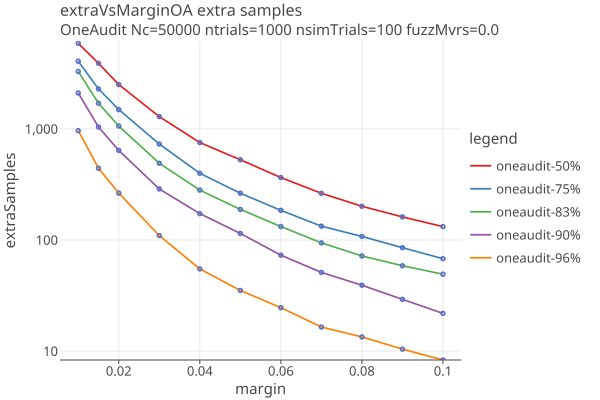
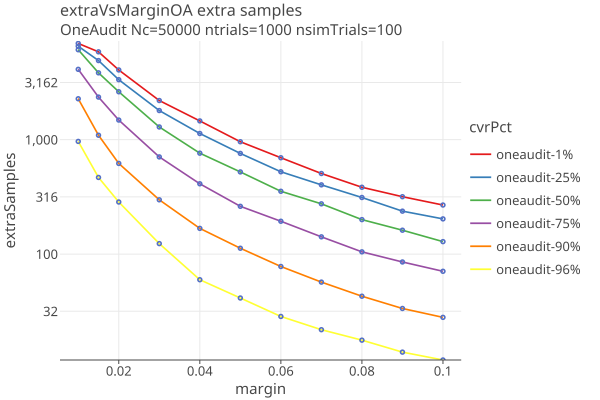
redo OA plots with ordering and different cvrPct

diff --git a/docs/plots2/estimate/extraVsMarginOALogLinear.html b/docs/plots2/estimate/extraVsMarginOALogLinear.html
@@ -5,7 +5,7 @@
        &lt;script type=&quot;text/javascript&quot; data-lets-plot-script=&quot;library&quot; src=&quot;https://cdn.jsdelivr.net/gh/JetBrains/lets-plot@v4.7.3/js-package/distr/lets-plot.min.js&quot;>&lt;/script>
    &lt;/head>
    &lt;body>
-          &lt;div id=&quot;NXNjhw&quot;>&lt;/div>
+          &lt;div id=&quot;jQuxOO&quot;>&lt;/div>
    &lt;script type=&quot;text/javascript&quot; data-lets-plot-script=&quot;plot&quot;>
    
    (function() {
@@ -30,7 +30,7 @@
        };
    }
    
-   const containerDiv = document.getElementById(&quot;NXNjhw&quot;);
+   const containerDiv = document.getElementById(&quot;jQuxOO&quot;);
    let fig = null;
    
    function renderPlot() {
@@ -38,7 +38,7 @@
            const plotSpec = {
 &quot;ggtitle&quot;:{
 &quot;text&quot;:&quot;extraVsMarginOA extra samples&quot;,
-&quot;subtitle&quot;:&quot;OneAudit Nc=50000 ntrials=1000 nsimTrials=100 fuzzMvrs=0.0&quot;
+&quot;subtitle&quot;:&quot;OneAudit Nc=50000 ntrials=1000 nsimTrials=100&quot;
 },
 &quot;mapping&quot;:{
 },
@@ -67,15 +67,15 @@
 &quot;mapping&quot;:{
 &quot;x&quot;:&quot;margin&quot;,
 &quot;y&quot;:&quot;extraSamples&quot;,
-&quot;color&quot;:&quot;legend&quot;,
+&quot;color&quot;:&quot;cvrPct&quot;,
 &quot;group&quot;:&quot;&amp;merged_groups&quot;
 },
 &quot;stat&quot;:&quot;identity&quot;,
 &quot;data&quot;:{
-&quot;margin&quot;:[0.010000000000000009,0.014999999999999902,0.020000000000000018,0.030000000000000027,0.040000000000000036,0.050000000000000044,0.06000000000000005,0.07000000000000006,0.08000000000000007,0.09000000000000008,0.10000000000000009,0.010000000000000009,0.014999999999999902,0.020000000000000018,0.030000000000000027,0.040000000000000036,0.050000000000000044,0.06000000000000005,0.07000000000000006,0.08000000000000007,0.09000000000000008,0.10000000000000009,0.010000000000000009,0.014999999999999902,0.020000000000000018,0.030000000000000027,0.040000000000000036,0.050000000000000044,0.06000000000000005,0.07000000000000006,0.08000000000000007,0.09000000000000008,0.10000000000000009,0.010000000000000009,0.014999999999999902,0.020000000000000018,0.030000000000000027,0.040000000000000036,0.050000000000000044,0.06000000000000005,0.07000000000000006,0.08000000000000007,0.09000000000000008,0.10000000000000009,0.010000000000000009,0.014999999999999902,0.020000000000000018,0.030000000000000027,0.040000000000000036,0.050000000000000044,0.06000000000000005,0.07000000000000006,0.08000000000000007,0.09000000000000008,0.10000000000000009],
-&quot;&amp;merged_groups&quot;:[&quot;oneaudit-50%&quot;,&quot;oneaudit-50%&quot;,&quot;oneaudit-50%&quot;,&quot;oneaudit-50%&quot;,&quot;oneaudit-50%&quot;,&quot;oneaudit-50%&quot;,&quot;oneaudit-50%&quot;,&quot;oneaudit-50%&quot;,&quot;oneaudit-50%&quot;,&quot;oneaudit-50%&quot;,&quot;oneaudit-50%&quot;,&quot;oneaudit-75%&quot;,&quot;oneaudit-75%&quot;,&quot;oneaudit-75%&quot;,&quot;oneaudit-75%&quot;,&quot;oneaudit-75%&quot;,&quot;oneaudit-75%&quot;,&quot;oneaudit-75%&quot;,&quot;oneaudit-75%&quot;,&quot;oneaudit-75%&quot;,&quot;oneaudit-75%&quot;,&quot;oneaudit-75%&quot;,&quot;oneaudit-83%&quot;,&quot;oneaudit-83%&quot;,&quot;oneaudit-83%&quot;,&quot;oneaudit-83%&quot;,&quot;oneaudit-83%&quot;,&quot;oneaudit-83%&quot;,&quot;oneaudit-83%&quot;,&quot;oneaudit-83%&quot;,&quot;oneaudit-83%&quot;,&quot;oneaudit-83%&quot;,&quot;oneaudit-83%&quot;,&quot;oneaudit-90%&quot;,&quot;oneaudit-90%&quot;,&quot;oneaudit-90%&quot;,&quot;oneaudit-90%&quot;,&quot;oneaudit-90%&quot;,&quot;oneaudit-90%&quot;,&quot;oneaudit-90%&quot;,&quot;oneaudit-90%&quot;,&quot;oneaudit-90%&quot;,&quot;oneaudit-90%&quot;,&quot;oneaudit-90%&quot;,&quot;oneaudit-96%&quot;,&quot;oneaudit-96%&quot;,&quot;oneaudit-96%&quot;,&quot;oneaudit-96%&quot;,&quot;oneaudit-96%&quot;,&quot;oneaudit-96%&quot;,&quot;oneaudit-96%&quot;,&quot;oneaudit-96%&quot;,&quot;oneaudit-96%&quot;,&quot;oneaudit-96%&quot;,&quot;oneaudit-96%&quot;],
-&quot;extraSamples&quot;:[5892.156999999999,3896.3800000000156,2508.1710000000003,1289.9650000000015,753.5949999999996,527.503999999999,364.76500000000055,263.01199999999835,201.08600000000013,161.28199999999987,131.8949999999997,4068.784000000005,2290.2610000000086,1492.8229999999994,731.2020000000009,398.56700000000103,263.4850000000006,184.72499999999968,133.15300000000053,107.61900000000011,85.27000000000007,67.78400000000025,3292.114000000004,1702.2140000000027,1061.2669999999994,490.41599999999835,281.3109999999996,188.39139139139138,132.17199999999968,94.18700000000001,71.81299999999982,58.629000000000076,49.179999999999936,2105.540000000001,1039.7429999999954,640.2400000000009,288.0450000000004,172.68699999999995,114.50299999999993,72.96800000000025,51.029000000000195,39.14200000000008,29.197999999999922,21.82799999999999,964.1899999999996,442.38800000000015,264.1849999999996,109.53000000000003,54.874000000000166,35.10600000000014,24.58200000000005,16.446999999999917,13.400999999999911,10.402999999999977,8.304000000000073],
-&quot;legend&quot;:[&quot;oneaudit-50%&quot;,&quot;oneaudit-50%&quot;,&quot;oneaudit-50%&quot;,&quot;oneaudit-50%&quot;,&quot;oneaudit-50%&quot;,&quot;oneaudit-50%&quot;,&quot;oneaudit-50%&quot;,&quot;oneaudit-50%&quot;,&quot;oneaudit-50%&quot;,&quot;oneaudit-50%&quot;,&quot;oneaudit-50%&quot;,&quot;oneaudit-75%&quot;,&quot;oneaudit-75%&quot;,&quot;oneaudit-75%&quot;,&quot;oneaudit-75%&quot;,&quot;oneaudit-75%&quot;,&quot;oneaudit-75%&quot;,&quot;oneaudit-75%&quot;,&quot;oneaudit-75%&quot;,&quot;oneaudit-75%&quot;,&quot;oneaudit-75%&quot;,&quot;oneaudit-75%&quot;,&quot;oneaudit-83%&quot;,&quot;oneaudit-83%&quot;,&quot;oneaudit-83%&quot;,&quot;oneaudit-83%&quot;,&quot;oneaudit-83%&quot;,&quot;oneaudit-83%&quot;,&quot;oneaudit-83%&quot;,&quot;oneaudit-83%&quot;,&quot;oneaudit-83%&quot;,&quot;oneaudit-83%&quot;,&quot;oneaudit-83%&quot;,&quot;oneaudit-90%&quot;,&quot;oneaudit-90%&quot;,&quot;oneaudit-90%&quot;,&quot;oneaudit-90%&quot;,&quot;oneaudit-90%&quot;,&quot;oneaudit-90%&quot;,&quot;oneaudit-90%&quot;,&quot;oneaudit-90%&quot;,&quot;oneaudit-90%&quot;,&quot;oneaudit-90%&quot;,&quot;oneaudit-90%&quot;,&quot;oneaudit-96%&quot;,&quot;oneaudit-96%&quot;,&quot;oneaudit-96%&quot;,&quot;oneaudit-96%&quot;,&quot;oneaudit-96%&quot;,&quot;oneaudit-96%&quot;,&quot;oneaudit-96%&quot;,&quot;oneaudit-96%&quot;,&quot;oneaudit-96%&quot;,&quot;oneaudit-96%&quot;,&quot;oneaudit-96%&quot;]
+&quot;cvrPct&quot;:[&quot;oneaudit-1%&quot;,&quot;oneaudit-1%&quot;,&quot;oneaudit-1%&quot;,&quot;oneaudit-1%&quot;,&quot;oneaudit-1%&quot;,&quot;oneaudit-1%&quot;,&quot;oneaudit-1%&quot;,&quot;oneaudit-1%&quot;,&quot;oneaudit-1%&quot;,&quot;oneaudit-1%&quot;,&quot;oneaudit-1%&quot;,&quot;oneaudit-25%&quot;,&quot;oneaudit-25%&quot;,&quot;oneaudit-25%&quot;,&quot;oneaudit-25%&quot;,&quot;oneaudit-25%&quot;,&quot;oneaudit-25%&quot;,&quot;oneaudit-25%&quot;,&quot;oneaudit-25%&quot;,&quot;oneaudit-25%&quot;,&quot;oneaudit-25%&quot;,&quot;oneaudit-25%&quot;,&quot;oneaudit-50%&quot;,&quot;oneaudit-50%&quot;,&quot;oneaudit-50%&quot;,&quot;oneaudit-50%&quot;,&quot;oneaudit-50%&quot;,&quot;oneaudit-50%&quot;,&quot;oneaudit-50%&quot;,&quot;oneaudit-50%&quot;,&quot;oneaudit-50%&quot;,&quot;oneaudit-50%&quot;,&quot;oneaudit-50%&quot;,&quot;oneaudit-75%&quot;,&quot;oneaudit-75%&quot;,&quot;oneaudit-75%&quot;,&quot;oneaudit-75%&quot;,&quot;oneaudit-75%&quot;,&quot;oneaudit-75%&quot;,&quot;oneaudit-75%&quot;,&quot;oneaudit-75%&quot;,&quot;oneaudit-75%&quot;,&quot;oneaudit-75%&quot;,&quot;oneaudit-75%&quot;,&quot;oneaudit-90%&quot;,&quot;oneaudit-90%&quot;,&quot;oneaudit-90%&quot;,&quot;oneaudit-90%&quot;,&quot;oneaudit-90%&quot;,&quot;oneaudit-90%&quot;,&quot;oneaudit-90%&quot;,&quot;oneaudit-90%&quot;,&quot;oneaudit-90%&quot;,&quot;oneaudit-90%&quot;,&quot;oneaudit-90%&quot;,&quot;oneaudit-96%&quot;,&quot;oneaudit-96%&quot;,&quot;oneaudit-96%&quot;,&quot;oneaudit-96%&quot;,&quot;oneaudit-96%&quot;,&quot;oneaudit-96%&quot;,&quot;oneaudit-96%&quot;,&quot;oneaudit-96%&quot;,&quot;oneaudit-96%&quot;,&quot;oneaudit-96%&quot;,&quot;oneaudit-96%&quot;],
+&quot;&amp;merged_groups&quot;:[&quot;oneaudit-1%&quot;,&quot;oneaudit-1%&quot;,&quot;oneaudit-1%&quot;,&quot;oneaudit-1%&quot;,&quot;oneaudit-1%&quot;,&quot;oneaudit-1%&quot;,&quot;oneaudit-1%&quot;,&quot;oneaudit-1%&quot;,&quot;oneaudit-1%&quot;,&quot;oneaudit-1%&quot;,&quot;oneaudit-1%&quot;,&quot;oneaudit-25%&quot;,&quot;oneaudit-25%&quot;,&quot;oneaudit-25%&quot;,&quot;oneaudit-25%&quot;,&quot;oneaudit-25%&quot;,&quot;oneaudit-25%&quot;,&quot;oneaudit-25%&quot;,&quot;oneaudit-25%&quot;,&quot;oneaudit-25%&quot;,&quot;oneaudit-25%&quot;,&quot;oneaudit-25%&quot;,&quot;oneaudit-50%&quot;,&quot;oneaudit-50%&quot;,&quot;oneaudit-50%&quot;,&quot;oneaudit-50%&quot;,&quot;oneaudit-50%&quot;,&quot;oneaudit-50%&quot;,&quot;oneaudit-50%&quot;,&quot;oneaudit-50%&quot;,&quot;oneaudit-50%&quot;,&quot;oneaudit-50%&quot;,&quot;oneaudit-50%&quot;,&quot;oneaudit-75%&quot;,&quot;oneaudit-75%&quot;,&quot;oneaudit-75%&quot;,&quot;oneaudit-75%&quot;,&quot;oneaudit-75%&quot;,&quot;oneaudit-75%&quot;,&quot;oneaudit-75%&quot;,&quot;oneaudit-75%&quot;,&quot;oneaudit-75%&quot;,&quot;oneaudit-75%&quot;,&quot;oneaudit-75%&quot;,&quot;oneaudit-90%&quot;,&quot;oneaudit-90%&quot;,&quot;oneaudit-90%&quot;,&quot;oneaudit-90%&quot;,&quot;oneaudit-90%&quot;,&quot;oneaudit-90%&quot;,&quot;oneaudit-90%&quot;,&quot;oneaudit-90%&quot;,&quot;oneaudit-90%&quot;,&quot;oneaudit-90%&quot;,&quot;oneaudit-90%&quot;,&quot;oneaudit-96%&quot;,&quot;oneaudit-96%&quot;,&quot;oneaudit-96%&quot;,&quot;oneaudit-96%&quot;,&quot;oneaudit-96%&quot;,&quot;oneaudit-96%&quot;,&quot;oneaudit-96%&quot;,&quot;oneaudit-96%&quot;,&quot;oneaudit-96%&quot;,&quot;oneaudit-96%&quot;,&quot;oneaudit-96%&quot;],
+&quot;margin&quot;:[0.01,0.015,0.02,0.03,0.04,0.05,0.06,0.07,0.08,0.09,0.1,0.01,0.015,0.02,0.03,0.04,0.05,0.06,0.07,0.08,0.09,0.1,0.01,0.015,0.02,0.03,0.04,0.05,0.06,0.07,0.08,0.09,0.1,0.01,0.015,0.02,0.03,0.04,0.05,0.06,0.07,0.08,0.09,0.1,0.01,0.015,0.02,0.03,0.04,0.05,0.06,0.07,0.08,0.09,0.1,0.01,0.015,0.02,0.03,0.04,0.05,0.06,0.07,0.08,0.09,0.1],
+&quot;extraSamples&quot;:[6944.184000000019,5861.829999999998,4069.528999999995,2199.7840000000024,1459.2089999999957,959.482000000005,695.2889999999989,506.24600000000146,383.7810000000003,317.34000000000026,268.35399999999925,6565.019000000022,4916.988000000003,3345.155999999999,1798.0410000000065,1132.8819999999969,758.5099999999998,524.3029999999999,402.8359999999998,312.31500000000074,237.274,203.0390000000005,6114.249999999996,3840.629999999992,2623.7739999999994,1291.8410000000013,762.3069999999982,522.5700000000011,353.9800000000009,274.93200000000024,200.07900000000046,161.6759999999996,128.48300000000017,4121.055000000004,2356.9190000000044,1484.4429999999993,706.9790000000005,411.57599999999957,261.5360000000002,193.6110000000001,141.4840000000002,104.59200000000013,85.28799999999995,70.71400000000008,2279.0939999999973,1093.6030000000014,620.106000000002,298.0879999999995,167.72899999999981,112.44899999999984,77.87099999999984,56.87199999999993,42.80999999999999,33.44499999999991,27.97200000000015,965.7780000000048,467.5629999999999,285.20299999999975,123.447,59.65700000000021,41.29900000000001,28.479999999999947,21.81599999999996,17.678999999999974,13.893999999999977,11.855000000000103]
 },
 &quot;sampling&quot;:&quot;none&quot;,
 &quot;inherit_aes&quot;:false,
@@ -84,7 +84,7 @@
 &quot;data_meta&quot;:{
 &quot;series_annotations&quot;:[{
 &quot;type&quot;:&quot;str&quot;,
-&quot;column&quot;:&quot;legend&quot;
+&quot;column&quot;:&quot;cvrPct&quot;
 },{
 &quot;type&quot;:&quot;float&quot;,
 &quot;column&quot;:&quot;margin&quot;
@@ -104,10 +104,10 @@
 },
 &quot;stat&quot;:&quot;identity&quot;,
 &quot;data&quot;:{
-&quot;margin&quot;:[0.010000000000000009,0.014999999999999902,0.020000000000000018,0.030000000000000027,0.040000000000000036,0.050000000000000044,0.06000000000000005,0.07000000000000006,0.08000000000000007,0.09000000000000008,0.10000000000000009,0.010000000000000009,0.014999999999999902,0.020000000000000018,0.030000000000000027,0.040000000000000036,0.050000000000000044,0.06000000000000005,0.07000000000000006,0.08000000000000007,0.09000000000000008,0.10000000000000009,0.010000000000000009,0.014999999999999902,0.020000000000000018,0.030000000000000027,0.040000000000000036,0.050000000000000044,0.06000000000000005,0.07000000000000006,0.08000000000000007,0.09000000000000008,0.10000000000000009,0.010000000000000009,0.014999999999999902,0.020000000000000018,0.030000000000000027,0.040000000000000036,0.050000000000000044,0.06000000000000005,0.07000000000000006,0.08000000000000007,0.09000000000000008,0.10000000000000009,0.010000000000000009,0.014999999999999902,0.020000000000000018,0.030000000000000027,0.040000000000000036,0.050000000000000044,0.06000000000000005,0.07000000000000006,0.08000000000000007,0.09000000000000008,0.10000000000000009],
-&quot;&amp;merged_groups&quot;:[&quot;oneaudit-50%&quot;,&quot;oneaudit-50%&quot;,&quot;oneaudit-50%&quot;,&quot;oneaudit-50%&quot;,&quot;oneaudit-50%&quot;,&quot;oneaudit-50%&quot;,&quot;oneaudit-50%&quot;,&quot;oneaudit-50%&quot;,&quot;oneaudit-50%&quot;,&quot;oneaudit-50%&quot;,&quot;oneaudit-50%&quot;,&quot;oneaudit-75%&quot;,&quot;oneaudit-75%&quot;,&quot;oneaudit-75%&quot;,&quot;oneaudit-75%&quot;,&quot;oneaudit-75%&quot;,&quot;oneaudit-75%&quot;,&quot;oneaudit-75%&quot;,&quot;oneaudit-75%&quot;,&quot;oneaudit-75%&quot;,&quot;oneaudit-75%&quot;,&quot;oneaudit-75%&quot;,&quot;oneaudit-83%&quot;,&quot;oneaudit-83%&quot;,&quot;oneaudit-83%&quot;,&quot;oneaudit-83%&quot;,&quot;oneaudit-83%&quot;,&quot;oneaudit-83%&quot;,&quot;oneaudit-83%&quot;,&quot;oneaudit-83%&quot;,&quot;oneaudit-83%&quot;,&quot;oneaudit-83%&quot;,&quot;oneaudit-83%&quot;,&quot;oneaudit-90%&quot;,&quot;oneaudit-90%&quot;,&quot;oneaudit-90%&quot;,&quot;oneaudit-90%&quot;,&quot;oneaudit-90%&quot;,&quot;oneaudit-90%&quot;,&quot;oneaudit-90%&quot;,&quot;oneaudit-90%&quot;,&quot;oneaudit-90%&quot;,&quot;oneaudit-90%&quot;,&quot;oneaudit-90%&quot;,&quot;oneaudit-96%&quot;,&quot;oneaudit-96%&quot;,&quot;oneaudit-96%&quot;,&quot;oneaudit-96%&quot;,&quot;oneaudit-96%&quot;,&quot;oneaudit-96%&quot;,&quot;oneaudit-96%&quot;,&quot;oneaudit-96%&quot;,&quot;oneaudit-96%&quot;,&quot;oneaudit-96%&quot;,&quot;oneaudit-96%&quot;],
-&quot;extraSamples&quot;:[5892.156999999999,3896.3800000000156,2508.1710000000003,1289.9650000000015,753.5949999999996,527.503999999999,364.76500000000055,263.01199999999835,201.08600000000013,161.28199999999987,131.8949999999997,4068.784000000005,2290.2610000000086,1492.8229999999994,731.2020000000009,398.56700000000103,263.4850000000006,184.72499999999968,133.15300000000053,107.61900000000011,85.27000000000007,67.78400000000025,3292.114000000004,1702.2140000000027,1061.2669999999994,490.41599999999835,281.3109999999996,188.39139139139138,132.17199999999968,94.18700000000001,71.81299999999982,58.629000000000076,49.179999999999936,2105.540000000001,1039.7429999999954,640.2400000000009,288.0450000000004,172.68699999999995,114.50299999999993,72.96800000000025,51.029000000000195,39.14200000000008,29.197999999999922,21.82799999999999,964.1899999999996,442.38800000000015,264.1849999999996,109.53000000000003,54.874000000000166,35.10600000000014,24.58200000000005,16.446999999999917,13.400999999999911,10.402999999999977,8.304000000000073],
-&quot;legend&quot;:[&quot;oneaudit-50%&quot;,&quot;oneaudit-50%&quot;,&quot;oneaudit-50%&quot;,&quot;oneaudit-50%&quot;,&quot;oneaudit-50%&quot;,&quot;oneaudit-50%&quot;,&quot;oneaudit-50%&quot;,&quot;oneaudit-50%&quot;,&quot;oneaudit-50%&quot;,&quot;oneaudit-50%&quot;,&quot;oneaudit-50%&quot;,&quot;oneaudit-75%&quot;,&quot;oneaudit-75%&quot;,&quot;oneaudit-75%&quot;,&quot;oneaudit-75%&quot;,&quot;oneaudit-75%&quot;,&quot;oneaudit-75%&quot;,&quot;oneaudit-75%&quot;,&quot;oneaudit-75%&quot;,&quot;oneaudit-75%&quot;,&quot;oneaudit-75%&quot;,&quot;oneaudit-75%&quot;,&quot;oneaudit-83%&quot;,&quot;oneaudit-83%&quot;,&quot;oneaudit-83%&quot;,&quot;oneaudit-83%&quot;,&quot;oneaudit-83%&quot;,&quot;oneaudit-83%&quot;,&quot;oneaudit-83%&quot;,&quot;oneaudit-83%&quot;,&quot;oneaudit-83%&quot;,&quot;oneaudit-83%&quot;,&quot;oneaudit-83%&quot;,&quot;oneaudit-90%&quot;,&quot;oneaudit-90%&quot;,&quot;oneaudit-90%&quot;,&quot;oneaudit-90%&quot;,&quot;oneaudit-90%&quot;,&quot;oneaudit-90%&quot;,&quot;oneaudit-90%&quot;,&quot;oneaudit-90%&quot;,&quot;oneaudit-90%&quot;,&quot;oneaudit-90%&quot;,&quot;oneaudit-90%&quot;,&quot;oneaudit-96%&quot;,&quot;oneaudit-96%&quot;,&quot;oneaudit-96%&quot;,&quot;oneaudit-96%&quot;,&quot;oneaudit-96%&quot;,&quot;oneaudit-96%&quot;,&quot;oneaudit-96%&quot;,&quot;oneaudit-96%&quot;,&quot;oneaudit-96%&quot;,&quot;oneaudit-96%&quot;,&quot;oneaudit-96%&quot;]
+&quot;cvrPct&quot;:[&quot;oneaudit-1%&quot;,&quot;oneaudit-1%&quot;,&quot;oneaudit-1%&quot;,&quot;oneaudit-1%&quot;,&quot;oneaudit-1%&quot;,&quot;oneaudit-1%&quot;,&quot;oneaudit-1%&quot;,&quot;oneaudit-1%&quot;,&quot;oneaudit-1%&quot;,&quot;oneaudit-1%&quot;,&quot;oneaudit-1%&quot;,&quot;oneaudit-25%&quot;,&quot;oneaudit-25%&quot;,&quot;oneaudit-25%&quot;,&quot;oneaudit-25%&quot;,&quot;oneaudit-25%&quot;,&quot;oneaudit-25%&quot;,&quot;oneaudit-25%&quot;,&quot;oneaudit-25%&quot;,&quot;oneaudit-25%&quot;,&quot;oneaudit-25%&quot;,&quot;oneaudit-25%&quot;,&quot;oneaudit-50%&quot;,&quot;oneaudit-50%&quot;,&quot;oneaudit-50%&quot;,&quot;oneaudit-50%&quot;,&quot;oneaudit-50%&quot;,&quot;oneaudit-50%&quot;,&quot;oneaudit-50%&quot;,&quot;oneaudit-50%&quot;,&quot;oneaudit-50%&quot;,&quot;oneaudit-50%&quot;,&quot;oneaudit-50%&quot;,&quot;oneaudit-75%&quot;,&quot;oneaudit-75%&quot;,&quot;oneaudit-75%&quot;,&quot;oneaudit-75%&quot;,&quot;oneaudit-75%&quot;,&quot;oneaudit-75%&quot;,&quot;oneaudit-75%&quot;,&quot;oneaudit-75%&quot;,&quot;oneaudit-75%&quot;,&quot;oneaudit-75%&quot;,&quot;oneaudit-75%&quot;,&quot;oneaudit-90%&quot;,&quot;oneaudit-90%&quot;,&quot;oneaudit-90%&quot;,&quot;oneaudit-90%&quot;,&quot;oneaudit-90%&quot;,&quot;oneaudit-90%&quot;,&quot;oneaudit-90%&quot;,&quot;oneaudit-90%&quot;,&quot;oneaudit-90%&quot;,&quot;oneaudit-90%&quot;,&quot;oneaudit-90%&quot;,&quot;oneaudit-96%&quot;,&quot;oneaudit-96%&quot;,&quot;oneaudit-96%&quot;,&quot;oneaudit-96%&quot;,&quot;oneaudit-96%&quot;,&quot;oneaudit-96%&quot;,&quot;oneaudit-96%&quot;,&quot;oneaudit-96%&quot;,&quot;oneaudit-96%&quot;,&quot;oneaudit-96%&quot;,&quot;oneaudit-96%&quot;],
+&quot;margin&quot;:[0.01,0.015,0.02,0.03,0.04,0.05,0.06,0.07,0.08,0.09,0.1,0.01,0.015,0.02,0.03,0.04,0.05,0.06,0.07,0.08,0.09,0.1,0.01,0.015,0.02,0.03,0.04,0.05,0.06,0.07,0.08,0.09,0.1,0.01,0.015,0.02,0.03,0.04,0.05,0.06,0.07,0.08,0.09,0.1,0.01,0.015,0.02,0.03,0.04,0.05,0.06,0.07,0.08,0.09,0.1,0.01,0.015,0.02,0.03,0.04,0.05,0.06,0.07,0.08,0.09,0.1],
+&quot;&amp;merged_groups&quot;:[&quot;oneaudit-1%&quot;,&quot;oneaudit-1%&quot;,&quot;oneaudit-1%&quot;,&quot;oneaudit-1%&quot;,&quot;oneaudit-1%&quot;,&quot;oneaudit-1%&quot;,&quot;oneaudit-1%&quot;,&quot;oneaudit-1%&quot;,&quot;oneaudit-1%&quot;,&quot;oneaudit-1%&quot;,&quot;oneaudit-1%&quot;,&quot;oneaudit-25%&quot;,&quot;oneaudit-25%&quot;,&quot;oneaudit-25%&quot;,&quot;oneaudit-25%&quot;,&quot;oneaudit-25%&quot;,&quot;oneaudit-25%&quot;,&quot;oneaudit-25%&quot;,&quot;oneaudit-25%&quot;,&quot;oneaudit-25%&quot;,&quot;oneaudit-25%&quot;,&quot;oneaudit-25%&quot;,&quot;oneaudit-50%&quot;,&quot;oneaudit-50%&quot;,&quot;oneaudit-50%&quot;,&quot;oneaudit-50%&quot;,&quot;oneaudit-50%&quot;,&quot;oneaudit-50%&quot;,&quot;oneaudit-50%&quot;,&quot;oneaudit-50%&quot;,&quot;oneaudit-50%&quot;,&quot;oneaudit-50%&quot;,&quot;oneaudit-50%&quot;,&quot;oneaudit-75%&quot;,&quot;oneaudit-75%&quot;,&quot;oneaudit-75%&quot;,&quot;oneaudit-75%&quot;,&quot;oneaudit-75%&quot;,&quot;oneaudit-75%&quot;,&quot;oneaudit-75%&quot;,&quot;oneaudit-75%&quot;,&quot;oneaudit-75%&quot;,&quot;oneaudit-75%&quot;,&quot;oneaudit-75%&quot;,&quot;oneaudit-90%&quot;,&quot;oneaudit-90%&quot;,&quot;oneaudit-90%&quot;,&quot;oneaudit-90%&quot;,&quot;oneaudit-90%&quot;,&quot;oneaudit-90%&quot;,&quot;oneaudit-90%&quot;,&quot;oneaudit-90%&quot;,&quot;oneaudit-90%&quot;,&quot;oneaudit-90%&quot;,&quot;oneaudit-90%&quot;,&quot;oneaudit-96%&quot;,&quot;oneaudit-96%&quot;,&quot;oneaudit-96%&quot;,&quot;oneaudit-96%&quot;,&quot;oneaudit-96%&quot;,&quot;oneaudit-96%&quot;,&quot;oneaudit-96%&quot;,&quot;oneaudit-96%&quot;,&quot;oneaudit-96%&quot;,&quot;oneaudit-96%&quot;,&quot;oneaudit-96%&quot;],
+&quot;extraSamples&quot;:[6944.184000000019,5861.829999999998,4069.528999999995,2199.7840000000024,1459.2089999999957,959.482000000005,695.2889999999989,506.24600000000146,383.7810000000003,317.34000000000026,268.35399999999925,6565.019000000022,4916.988000000003,3345.155999999999,1798.0410000000065,1132.8819999999969,758.5099999999998,524.3029999999999,402.8359999999998,312.31500000000074,237.274,203.0390000000005,6114.249999999996,3840.629999999992,2623.7739999999994,1291.8410000000013,762.3069999999982,522.5700000000011,353.9800000000009,274.93200000000024,200.07900000000046,161.6759999999996,128.48300000000017,4121.055000000004,2356.9190000000044,1484.4429999999993,706.9790000000005,411.57599999999957,261.5360000000002,193.6110000000001,141.4840000000002,104.59200000000013,85.28799999999995,70.71400000000008,2279.0939999999973,1093.6030000000014,620.106000000002,298.0879999999995,167.72899999999981,112.44899999999984,77.87099999999984,56.87199999999993,42.80999999999999,33.44499999999991,27.97200000000015,965.7780000000048,467.5629999999999,285.20299999999975,123.447,59.65700000000021,41.29900000000001,28.479999999999947,21.81599999999996,17.678999999999974,13.893999999999977,11.855000000000103]
 },
 &quot;size&quot;:1.0,
 &quot;shape&quot;:1.0,
@@ -119,7 +119,7 @@
 &quot;data_meta&quot;:{
 &quot;series_annotations&quot;:[{
 &quot;type&quot;:&quot;str&quot;,
-&quot;column&quot;:&quot;legend&quot;
+&quot;column&quot;:&quot;cvrPct&quot;
 },{
 &quot;type&quot;:&quot;float&quot;,
 &quot;column&quot;:&quot;margin&quot;
@@ -132,7 +132,7 @@
 }]
 },
 &quot;tooltips&quot;:{
-&quot;variables&quot;:[&quot;margin&quot;,&quot;extraSamples&quot;,&quot;legend&quot;],
+&quot;variables&quot;:[&quot;margin&quot;,&quot;extraSamples&quot;,&quot;cvrPct&quot;],
 &quot;disable_splitting&quot;:true
 }
 }],

diff --git a/docs/plots2/estimate/extraVsMarginOANroundsLinear.html b/docs/plots2/estimate/extraVsMarginOANroundsLinear.html
@@ -5,7 +5,7 @@
        &lt;script type=&quot;text/javascript&quot; data-lets-plot-script=&quot;library&quot; src=&quot;https://cdn.jsdelivr.net/gh/JetBrains/lets-plot@v4.7.3/js-package/distr/lets-plot.min.js&quot;>&lt;/script>
    &lt;/head>
    &lt;body>
-          &lt;div id=&quot;Co1tKq&quot;>&lt;/div>
+          &lt;div id=&quot;T1AOcr&quot;>&lt;/div>
    &lt;script type=&quot;text/javascript&quot; data-lets-plot-script=&quot;plot&quot;>
    
    (function() {
@@ -30,7 +30,7 @@
        };
    }
    
-   const containerDiv = document.getElementById(&quot;Co1tKq&quot;);
+   const containerDiv = document.getElementById(&quot;T1AOcr&quot;);
    let fig = null;
    
    function renderPlot() {
@@ -38,7 +38,7 @@
            const plotSpec = {
 &quot;ggtitle&quot;:{
 &quot;text&quot;:&quot;extraVsMarginOA number of audit rounds&quot;,
-&quot;subtitle&quot;:&quot;OneAudit Nc=50000 ntrials=1000 nsimTrials=100 fuzzMvrs=0.0&quot;
+&quot;subtitle&quot;:&quot;OneAudit Nc=50000 ntrials=1000 nsimTrials=100&quot;
 },
 &quot;mapping&quot;:{
 },
@@ -65,15 +65,15 @@
 &quot;mapping&quot;:{
 &quot;x&quot;:&quot;margin&quot;,
 &quot;y&quot;:&quot;auditRounds&quot;,
-&quot;color&quot;:&quot;legend&quot;,
+&quot;color&quot;:&quot;cvrPct&quot;,
 &quot;group&quot;:&quot;&amp;merged_groups&quot;
 },
 &quot;stat&quot;:&quot;identity&quot;,
 &quot;data&quot;:{
-&quot;auditRounds&quot;:[1.574,1.6,1.624,1.602,1.589,1.654,1.635,1.615,1.613,1.585,1.639,1.562,1.587,1.625,1.604,1.641,1.614,1.597,1.602,1.579,1.624,1.571,1.566,1.6,1.644,1.628,1.617,1.6176176176176176,1.632,1.601,1.617,1.58,1.578,1.615,1.581,1.58,1.612,1.606,1.553,1.558,1.556,1.544,1.496,1.504,1.61,1.601,1.589,1.551,1.495,1.481,1.415,1.404,1.378,1.369,1.379],
-&quot;margin&quot;:[0.010000000000000009,0.014999999999999902,0.020000000000000018,0.030000000000000027,0.040000000000000036,0.050000000000000044,0.06000000000000005,0.07000000000000006,0.08000000000000007,0.09000000000000008,0.10000000000000009,0.010000000000000009,0.014999999999999902,0.020000000000000018,0.030000000000000027,0.040000000000000036,0.050000000000000044,0.06000000000000005,0.07000000000000006,0.08000000000000007,0.09000000000000008,0.10000000000000009,0.010000000000000009,0.014999999999999902,0.020000000000000018,0.030000000000000027,0.040000000000000036,0.050000000000000044,0.06000000000000005,0.07000000000000006,0.08000000000000007,0.09000000000000008,0.10000000000000009,0.010000000000000009,0.014999999999999902,0.020000000000000018,0.030000000000000027,0.040000000000000036,0.050000000000000044,0.06000000000000005,0.07000000000000006,0.08000000000000007,0.09000000000000008,0.10000000000000009,0.010000000000000009,0.014999999999999902,0.020000000000000018,0.030000000000000027,0.040000000000000036,0.050000000000000044,0.06000000000000005,0.07000000000000006,0.08000000000000007,0.09000000000000008,0.10000000000000009],
-&quot;&amp;merged_groups&quot;:[&quot;oneaudit-50%&quot;,&quot;oneaudit-50%&quot;,&quot;oneaudit-50%&quot;,&quot;oneaudit-50%&quot;,&quot;oneaudit-50%&quot;,&quot;oneaudit-50%&quot;,&quot;oneaudit-50%&quot;,&quot;oneaudit-50%&quot;,&quot;oneaudit-50%&quot;,&quot;oneaudit-50%&quot;,&quot;oneaudit-50%&quot;,&quot;oneaudit-75%&quot;,&quot;oneaudit-75%&quot;,&quot;oneaudit-75%&quot;,&quot;oneaudit-75%&quot;,&quot;oneaudit-75%&quot;,&quot;oneaudit-75%&quot;,&quot;oneaudit-75%&quot;,&quot;oneaudit-75%&quot;,&quot;oneaudit-75%&quot;,&quot;oneaudit-75%&quot;,&quot;oneaudit-75%&quot;,&quot;oneaudit-83%&quot;,&quot;oneaudit-83%&quot;,&quot;oneaudit-83%&quot;,&quot;oneaudit-83%&quot;,&quot;oneaudit-83%&quot;,&quot;oneaudit-83%&quot;,&quot;oneaudit-83%&quot;,&quot;oneaudit-83%&quot;,&quot;oneaudit-83%&quot;,&quot;oneaudit-83%&quot;,&quot;oneaudit-83%&quot;,&quot;oneaudit-90%&quot;,&quot;oneaudit-90%&quot;,&quot;oneaudit-90%&quot;,&quot;oneaudit-90%&quot;,&quot;oneaudit-90%&quot;,&quot;oneaudit-90%&quot;,&quot;oneaudit-90%&quot;,&quot;oneaudit-90%&quot;,&quot;oneaudit-90%&quot;,&quot;oneaudit-90%&quot;,&quot;oneaudit-90%&quot;,&quot;oneaudit-96%&quot;,&quot;oneaudit-96%&quot;,&quot;oneaudit-96%&quot;,&quot;oneaudit-96%&quot;,&quot;oneaudit-96%&quot;,&quot;oneaudit-96%&quot;,&quot;oneaudit-96%&quot;,&quot;oneaudit-96%&quot;,&quot;oneaudit-96%&quot;,&quot;oneaudit-96%&quot;,&quot;oneaudit-96%&quot;],
-&quot;legend&quot;:[&quot;oneaudit-50%&quot;,&quot;oneaudit-50%&quot;,&quot;oneaudit-50%&quot;,&quot;oneaudit-50%&quot;,&quot;oneaudit-50%&quot;,&quot;oneaudit-50%&quot;,&quot;oneaudit-50%&quot;,&quot;oneaudit-50%&quot;,&quot;oneaudit-50%&quot;,&quot;oneaudit-50%&quot;,&quot;oneaudit-50%&quot;,&quot;oneaudit-75%&quot;,&quot;oneaudit-75%&quot;,&quot;oneaudit-75%&quot;,&quot;oneaudit-75%&quot;,&quot;oneaudit-75%&quot;,&quot;oneaudit-75%&quot;,&quot;oneaudit-75%&quot;,&quot;oneaudit-75%&quot;,&quot;oneaudit-75%&quot;,&quot;oneaudit-75%&quot;,&quot;oneaudit-75%&quot;,&quot;oneaudit-83%&quot;,&quot;oneaudit-83%&quot;,&quot;oneaudit-83%&quot;,&quot;oneaudit-83%&quot;,&quot;oneaudit-83%&quot;,&quot;oneaudit-83%&quot;,&quot;oneaudit-83%&quot;,&quot;oneaudit-83%&quot;,&quot;oneaudit-83%&quot;,&quot;oneaudit-83%&quot;,&quot;oneaudit-83%&quot;,&quot;oneaudit-90%&quot;,&quot;oneaudit-90%&quot;,&quot;oneaudit-90%&quot;,&quot;oneaudit-90%&quot;,&quot;oneaudit-90%&quot;,&quot;oneaudit-90%&quot;,&quot;oneaudit-90%&quot;,&quot;oneaudit-90%&quot;,&quot;oneaudit-90%&quot;,&quot;oneaudit-90%&quot;,&quot;oneaudit-90%&quot;,&quot;oneaudit-96%&quot;,&quot;oneaudit-96%&quot;,&quot;oneaudit-96%&quot;,&quot;oneaudit-96%&quot;,&quot;oneaudit-96%&quot;,&quot;oneaudit-96%&quot;,&quot;oneaudit-96%&quot;,&quot;oneaudit-96%&quot;,&quot;oneaudit-96%&quot;,&quot;oneaudit-96%&quot;,&quot;oneaudit-96%&quot;]
+&quot;cvrPct&quot;:[&quot;oneaudit-1%&quot;,&quot;oneaudit-1%&quot;,&quot;oneaudit-1%&quot;,&quot;oneaudit-1%&quot;,&quot;oneaudit-1%&quot;,&quot;oneaudit-1%&quot;,&quot;oneaudit-1%&quot;,&quot;oneaudit-1%&quot;,&quot;oneaudit-1%&quot;,&quot;oneaudit-1%&quot;,&quot;oneaudit-1%&quot;,&quot;oneaudit-25%&quot;,&quot;oneaudit-25%&quot;,&quot;oneaudit-25%&quot;,&quot;oneaudit-25%&quot;,&quot;oneaudit-25%&quot;,&quot;oneaudit-25%&quot;,&quot;oneaudit-25%&quot;,&quot;oneaudit-25%&quot;,&quot;oneaudit-25%&quot;,&quot;oneaudit-25%&quot;,&quot;oneaudit-25%&quot;,&quot;oneaudit-50%&quot;,&quot;oneaudit-50%&quot;,&quot;oneaudit-50%&quot;,&quot;oneaudit-50%&quot;,&quot;oneaudit-50%&quot;,&quot;oneaudit-50%&quot;,&quot;oneaudit-50%&quot;,&quot;oneaudit-50%&quot;,&quot;oneaudit-50%&quot;,&quot;oneaudit-50%&quot;,&quot;oneaudit-50%&quot;,&quot;oneaudit-75%&quot;,&quot;oneaudit-75%&quot;,&quot;oneaudit-75%&quot;,&quot;oneaudit-75%&quot;,&quot;oneaudit-75%&quot;,&quot;oneaudit-75%&quot;,&quot;oneaudit-75%&quot;,&quot;oneaudit-75%&quot;,&quot;oneaudit-75%&quot;,&quot;oneaudit-75%&quot;,&quot;oneaudit-75%&quot;,&quot;oneaudit-90%&quot;,&quot;oneaudit-90%&quot;,&quot;oneaudit-90%&quot;,&quot;oneaudit-90%&quot;,&quot;oneaudit-90%&quot;,&quot;oneaudit-90%&quot;,&quot;oneaudit-90%&quot;,&quot;oneaudit-90%&quot;,&quot;oneaudit-90%&quot;,&quot;oneaudit-90%&quot;,&quot;oneaudit-90%&quot;,&quot;oneaudit-96%&quot;,&quot;oneaudit-96%&quot;,&quot;oneaudit-96%&quot;,&quot;oneaudit-96%&quot;,&quot;oneaudit-96%&quot;,&quot;oneaudit-96%&quot;,&quot;oneaudit-96%&quot;,&quot;oneaudit-96%&quot;,&quot;oneaudit-96%&quot;,&quot;oneaudit-96%&quot;,&quot;oneaudit-96%&quot;],
+&quot;auditRounds&quot;:[1.576,1.569,1.597,1.551,1.644,1.622,1.618,1.636,1.615,1.625,1.622,1.559,1.589,1.589,1.581,1.606,1.577,1.601,1.609,1.629,1.618,1.601,1.582,1.598,1.598,1.605,1.603,1.589,1.611,1.681,1.629,1.578,1.613,1.554,1.62,1.557,1.589,1.644,1.598,1.596,1.629,1.596,1.618,1.592,1.674,1.554,1.599,1.635,1.632,1.603,1.561,1.536,1.556,1.494,1.527,1.57,1.611,1.591,1.586,1.508,1.471,1.43,1.414,1.417,1.367,1.358],
+&quot;margin&quot;:[0.01,0.015,0.02,0.03,0.04,0.05,0.06,0.07,0.08,0.09,0.1,0.01,0.015,0.02,0.03,0.04,0.05,0.06,0.07,0.08,0.09,0.1,0.01,0.015,0.02,0.03,0.04,0.05,0.06,0.07,0.08,0.09,0.1,0.01,0.015,0.02,0.03,0.04,0.05,0.06,0.07,0.08,0.09,0.1,0.01,0.015,0.02,0.03,0.04,0.05,0.06,0.07,0.08,0.09,0.1,0.01,0.015,0.02,0.03,0.04,0.05,0.06,0.07,0.08,0.09,0.1],
+&quot;&amp;merged_groups&quot;:[&quot;oneaudit-1%&quot;,&quot;oneaudit-1%&quot;,&quot;oneaudit-1%&quot;,&quot;oneaudit-1%&quot;,&quot;oneaudit-1%&quot;,&quot;oneaudit-1%&quot;,&quot;oneaudit-1%&quot;,&quot;oneaudit-1%&quot;,&quot;oneaudit-1%&quot;,&quot;oneaudit-1%&quot;,&quot;oneaudit-1%&quot;,&quot;oneaudit-25%&quot;,&quot;oneaudit-25%&quot;,&quot;oneaudit-25%&quot;,&quot;oneaudit-25%&quot;,&quot;oneaudit-25%&quot;,&quot;oneaudit-25%&quot;,&quot;oneaudit-25%&quot;,&quot;oneaudit-25%&quot;,&quot;oneaudit-25%&quot;,&quot;oneaudit-25%&quot;,&quot;oneaudit-25%&quot;,&quot;oneaudit-50%&quot;,&quot;oneaudit-50%&quot;,&quot;oneaudit-50%&quot;,&quot;oneaudit-50%&quot;,&quot;oneaudit-50%&quot;,&quot;oneaudit-50%&quot;,&quot;oneaudit-50%&quot;,&quot;oneaudit-50%&quot;,&quot;oneaudit-50%&quot;,&quot;oneaudit-50%&quot;,&quot;oneaudit-50%&quot;,&quot;oneaudit-75%&quot;,&quot;oneaudit-75%&quot;,&quot;oneaudit-75%&quot;,&quot;oneaudit-75%&quot;,&quot;oneaudit-75%&quot;,&quot;oneaudit-75%&quot;,&quot;oneaudit-75%&quot;,&quot;oneaudit-75%&quot;,&quot;oneaudit-75%&quot;,&quot;oneaudit-75%&quot;,&quot;oneaudit-75%&quot;,&quot;oneaudit-90%&quot;,&quot;oneaudit-90%&quot;,&quot;oneaudit-90%&quot;,&quot;oneaudit-90%&quot;,&quot;oneaudit-90%&quot;,&quot;oneaudit-90%&quot;,&quot;oneaudit-90%&quot;,&quot;oneaudit-90%&quot;,&quot;oneaudit-90%&quot;,&quot;oneaudit-90%&quot;,&quot;oneaudit-90%&quot;,&quot;oneaudit-96%&quot;,&quot;oneaudit-96%&quot;,&quot;oneaudit-96%&quot;,&quot;oneaudit-96%&quot;,&quot;oneaudit-96%&quot;,&quot;oneaudit-96%&quot;,&quot;oneaudit-96%&quot;,&quot;oneaudit-96%&quot;,&quot;oneaudit-96%&quot;,&quot;oneaudit-96%&quot;,&quot;oneaudit-96%&quot;]
 },
 &quot;sampling&quot;:&quot;none&quot;,
 &quot;inherit_aes&quot;:false,
@@ -82,7 +82,7 @@
 &quot;data_meta&quot;:{
 &quot;series_annotations&quot;:[{
 &quot;type&quot;:&quot;str&quot;,
-&quot;column&quot;:&quot;legend&quot;
+&quot;column&quot;:&quot;cvrPct&quot;
 },{
 &quot;type&quot;:&quot;float&quot;,
 &quot;column&quot;:&quot;margin&quot;
@@ -102,10 +102,10 @@
 },
 &quot;stat&quot;:&quot;identity&quot;,
 &quot;data&quot;:{
-&quot;&amp;merged_groups&quot;:[&quot;oneaudit-50%&quot;,&quot;oneaudit-50%&quot;,&quot;oneaudit-50%&quot;,&quot;oneaudit-50%&quot;,&quot;oneaudit-50%&quot;,&quot;oneaudit-50%&quot;,&quot;oneaudit-50%&quot;,&quot;oneaudit-50%&quot;,&quot;oneaudit-50%&quot;,&quot;oneaudit-50%&quot;,&quot;oneaudit-50%&quot;,&quot;oneaudit-75%&quot;,&quot;oneaudit-75%&quot;,&quot;oneaudit-75%&quot;,&quot;oneaudit-75%&quot;,&quot;oneaudit-75%&quot;,&quot;oneaudit-75%&quot;,&quot;oneaudit-75%&quot;,&quot;oneaudit-75%&quot;,&quot;oneaudit-75%&quot;,&quot;oneaudit-75%&quot;,&quot;oneaudit-75%&quot;,&quot;oneaudit-83%&quot;,&quot;oneaudit-83%&quot;,&quot;oneaudit-83%&quot;,&quot;oneaudit-83%&quot;,&quot;oneaudit-83%&quot;,&quot;oneaudit-83%&quot;,&quot;oneaudit-83%&quot;,&quot;oneaudit-83%&quot;,&quot;oneaudit-83%&quot;,&quot;oneaudit-83%&quot;,&quot;oneaudit-83%&quot;,&quot;oneaudit-90%&quot;,&quot;oneaudit-90%&quot;,&quot;oneaudit-90%&quot;,&quot;oneaudit-90%&quot;,&quot;oneaudit-90%&quot;,&quot;oneaudit-90%&quot;,&quot;oneaudit-90%&quot;,&quot;oneaudit-90%&quot;,&quot;oneaudit-90%&quot;,&quot;oneaudit-90%&quot;,&quot;oneaudit-90%&quot;,&quot;oneaudit-96%&quot;,&quot;oneaudit-96%&quot;,&quot;oneaudit-96%&quot;,&quot;oneaudit-96%&quot;,&quot;oneaudit-96%&quot;,&quot;oneaudit-96%&quot;,&quot;oneaudit-96%&quot;,&quot;oneaudit-96%&quot;,&quot;oneaudit-96%&quot;,&quot;oneaudit-96%&quot;,&quot;oneaudit-96%&quot;],
-&quot;margin&quot;:[0.010000000000000009,0.014999999999999902,0.020000000000000018,0.030000000000000027,0.040000000000000036,0.050000000000000044,0.06000000000000005,0.07000000000000006,0.08000000000000007,0.09000000000000008,0.10000000000000009,0.010000000000000009,0.014999999999999902,0.020000000000000018,0.030000000000000027,0.040000000000000036,0.050000000000000044,0.06000000000000005,0.07000000000000006,0.08000000000000007,0.09000000000000008,0.10000000000000009,0.010000000000000009,0.014999999999999902,0.020000000000000018,0.030000000000000027,0.040000000000000036,0.050000000000000044,0.06000000000000005,0.07000000000000006,0.08000000000000007,0.09000000000000008,0.10000000000000009,0.010000000000000009,0.014999999999999902,0.020000000000000018,0.030000000000000027,0.040000000000000036,0.050000000000000044,0.06000000000000005,0.07000000000000006,0.08000000000000007,0.09000000000000008,0.10000000000000009,0.010000000000000009,0.014999999999999902,0.020000000000000018,0.030000000000000027,0.040000000000000036,0.050000000000000044,0.06000000000000005,0.07000000000000006,0.08000000000000007,0.09000000000000008,0.10000000000000009],
-&quot;auditRounds&quot;:[1.574,1.6,1.624,1.602,1.589,1.654,1.635,1.615,1.613,1.585,1.639,1.562,1.587,1.625,1.604,1.641,1.614,1.597,1.602,1.579,1.624,1.571,1.566,1.6,1.644,1.628,1.617,1.6176176176176176,1.632,1.601,1.617,1.58,1.578,1.615,1.581,1.58,1.612,1.606,1.553,1.558,1.556,1.544,1.496,1.504,1.61,1.601,1.589,1.551,1.495,1.481,1.415,1.404,1.378,1.369,1.379],
-&quot;legend&quot;:[&quot;oneaudit-50%&quot;,&quot;oneaudit-50%&quot;,&quot;oneaudit-50%&quot;,&quot;oneaudit-50%&quot;,&quot;oneaudit-50%&quot;,&quot;oneaudit-50%&quot;,&quot;oneaudit-50%&quot;,&quot;oneaudit-50%&quot;,&quot;oneaudit-50%&quot;,&quot;oneaudit-50%&quot;,&quot;oneaudit-50%&quot;,&quot;oneaudit-75%&quot;,&quot;oneaudit-75%&quot;,&quot;oneaudit-75%&quot;,&quot;oneaudit-75%&quot;,&quot;oneaudit-75%&quot;,&quot;oneaudit-75%&quot;,&quot;oneaudit-75%&quot;,&quot;oneaudit-75%&quot;,&quot;oneaudit-75%&quot;,&quot;oneaudit-75%&quot;,&quot;oneaudit-75%&quot;,&quot;oneaudit-83%&quot;,&quot;oneaudit-83%&quot;,&quot;oneaudit-83%&quot;,&quot;oneaudit-83%&quot;,&quot;oneaudit-83%&quot;,&quot;oneaudit-83%&quot;,&quot;oneaudit-83%&quot;,&quot;oneaudit-83%&quot;,&quot;oneaudit-83%&quot;,&quot;oneaudit-83%&quot;,&quot;oneaudit-83%&quot;,&quot;oneaudit-90%&quot;,&quot;oneaudit-90%&quot;,&quot;oneaudit-90%&quot;,&quot;oneaudit-90%&quot;,&quot;oneaudit-90%&quot;,&quot;oneaudit-90%&quot;,&quot;oneaudit-90%&quot;,&quot;oneaudit-90%&quot;,&quot;oneaudit-90%&quot;,&quot;oneaudit-90%&quot;,&quot;oneaudit-90%&quot;,&quot;oneaudit-96%&quot;,&quot;oneaudit-96%&quot;,&quot;oneaudit-96%&quot;,&quot;oneaudit-96%&quot;,&quot;oneaudit-96%&quot;,&quot;oneaudit-96%&quot;,&quot;oneaudit-96%&quot;,&quot;oneaudit-96%&quot;,&quot;oneaudit-96%&quot;,&quot;oneaudit-96%&quot;,&quot;oneaudit-96%&quot;]
+&quot;cvrPct&quot;:[&quot;oneaudit-1%&quot;,&quot;oneaudit-1%&quot;,&quot;oneaudit-1%&quot;,&quot;oneaudit-1%&quot;,&quot;oneaudit-1%&quot;,&quot;oneaudit-1%&quot;,&quot;oneaudit-1%&quot;,&quot;oneaudit-1%&quot;,&quot;oneaudit-1%&quot;,&quot;oneaudit-1%&quot;,&quot;oneaudit-1%&quot;,&quot;oneaudit-25%&quot;,&quot;oneaudit-25%&quot;,&quot;oneaudit-25%&quot;,&quot;oneaudit-25%&quot;,&quot;oneaudit-25%&quot;,&quot;oneaudit-25%&quot;,&quot;oneaudit-25%&quot;,&quot;oneaudit-25%&quot;,&quot;oneaudit-25%&quot;,&quot;oneaudit-25%&quot;,&quot;oneaudit-25%&quot;,&quot;oneaudit-50%&quot;,&quot;oneaudit-50%&quot;,&quot;oneaudit-50%&quot;,&quot;oneaudit-50%&quot;,&quot;oneaudit-50%&quot;,&quot;oneaudit-50%&quot;,&quot;oneaudit-50%&quot;,&quot;oneaudit-50%&quot;,&quot;oneaudit-50%&quot;,&quot;oneaudit-50%&quot;,&quot;oneaudit-50%&quot;,&quot;oneaudit-75%&quot;,&quot;oneaudit-75%&quot;,&quot;oneaudit-75%&quot;,&quot;oneaudit-75%&quot;,&quot;oneaudit-75%&quot;,&quot;oneaudit-75%&quot;,&quot;oneaudit-75%&quot;,&quot;oneaudit-75%&quot;,&quot;oneaudit-75%&quot;,&quot;oneaudit-75%&quot;,&quot;oneaudit-75%&quot;,&quot;oneaudit-90%&quot;,&quot;oneaudit-90%&quot;,&quot;oneaudit-90%&quot;,&quot;oneaudit-90%&quot;,&quot;oneaudit-90%&quot;,&quot;oneaudit-90%&quot;,&quot;oneaudit-90%&quot;,&quot;oneaudit-90%&quot;,&quot;oneaudit-90%&quot;,&quot;oneaudit-90%&quot;,&quot;oneaudit-90%&quot;,&quot;oneaudit-96%&quot;,&quot;oneaudit-96%&quot;,&quot;oneaudit-96%&quot;,&quot;oneaudit-96%&quot;,&quot;oneaudit-96%&quot;,&quot;oneaudit-96%&quot;,&quot;oneaudit-96%&quot;,&quot;oneaudit-96%&quot;,&quot;oneaudit-96%&quot;,&quot;oneaudit-96%&quot;,&quot;oneaudit-96%&quot;],
+&quot;auditRounds&quot;:[1.576,1.569,1.597,1.551,1.644,1.622,1.618,1.636,1.615,1.625,1.622,1.559,1.589,1.589,1.581,1.606,1.577,1.601,1.609,1.629,1.618,1.601,1.582,1.598,1.598,1.605,1.603,1.589,1.611,1.681,1.629,1.578,1.613,1.554,1.62,1.557,1.589,1.644,1.598,1.596,1.629,1.596,1.618,1.592,1.674,1.554,1.599,1.635,1.632,1.603,1.561,1.536,1.556,1.494,1.527,1.57,1.611,1.591,1.586,1.508,1.471,1.43,1.414,1.417,1.367,1.358],
+&quot;&amp;merged_groups&quot;:[&quot;oneaudit-1%&quot;,&quot;oneaudit-1%&quot;,&quot;oneaudit-1%&quot;,&quot;oneaudit-1%&quot;,&quot;oneaudit-1%&quot;,&quot;oneaudit-1%&quot;,&quot;oneaudit-1%&quot;,&quot;oneaudit-1%&quot;,&quot;oneaudit-1%&quot;,&quot;oneaudit-1%&quot;,&quot;oneaudit-1%&quot;,&quot;oneaudit-25%&quot;,&quot;oneaudit-25%&quot;,&quot;oneaudit-25%&quot;,&quot;oneaudit-25%&quot;,&quot;oneaudit-25%&quot;,&quot;oneaudit-25%&quot;,&quot;oneaudit-25%&quot;,&quot;oneaudit-25%&quot;,&quot;oneaudit-25%&quot;,&quot;oneaudit-25%&quot;,&quot;oneaudit-25%&quot;,&quot;oneaudit-50%&quot;,&quot;oneaudit-50%&quot;,&quot;oneaudit-50%&quot;,&quot;oneaudit-50%&quot;,&quot;oneaudit-50%&quot;,&quot;oneaudit-50%&quot;,&quot;oneaudit-50%&quot;,&quot;oneaudit-50%&quot;,&quot;oneaudit-50%&quot;,&quot;oneaudit-50%&quot;,&quot;oneaudit-50%&quot;,&quot;oneaudit-75%&quot;,&quot;oneaudit-75%&quot;,&quot;oneaudit-75%&quot;,&quot;oneaudit-75%&quot;,&quot;oneaudit-75%&quot;,&quot;oneaudit-75%&quot;,&quot;oneaudit-75%&quot;,&quot;oneaudit-75%&quot;,&quot;oneaudit-75%&quot;,&quot;oneaudit-75%&quot;,&quot;oneaudit-75%&quot;,&quot;oneaudit-90%&quot;,&quot;oneaudit-90%&quot;,&quot;oneaudit-90%&quot;,&quot;oneaudit-90%&quot;,&quot;oneaudit-90%&quot;,&quot;oneaudit-90%&quot;,&quot;oneaudit-90%&quot;,&quot;oneaudit-90%&quot;,&quot;oneaudit-90%&quot;,&quot;oneaudit-90%&quot;,&quot;oneaudit-90%&quot;,&quot;oneaudit-96%&quot;,&quot;oneaudit-96%&quot;,&quot;oneaudit-96%&quot;,&quot;oneaudit-96%&quot;,&quot;oneaudit-96%&quot;,&quot;oneaudit-96%&quot;,&quot;oneaudit-96%&quot;,&quot;oneaudit-96%&quot;,&quot;oneaudit-96%&quot;,&quot;oneaudit-96%&quot;,&quot;oneaudit-96%&quot;],
+&quot;margin&quot;:[0.01,0.015,0.02,0.03,0.04,0.05,0.06,0.07,0.08,0.09,0.1,0.01,0.015,0.02,0.03,0.04,0.05,0.06,0.07,0.08,0.09,0.1,0.01,0.015,0.02,0.03,0.04,0.05,0.06,0.07,0.08,0.09,0.1,0.01,0.015,0.02,0.03,0.04,0.05,0.06,0.07,0.08,0.09,0.1,0.01,0.015,0.02,0.03,0.04,0.05,0.06,0.07,0.08,0.09,0.1,0.01,0.015,0.02,0.03,0.04,0.05,0.06,0.07,0.08,0.09,0.1]
 },
 &quot;size&quot;:1.0,
 &quot;shape&quot;:1.0,
@@ -117,7 +117,7 @@
 &quot;data_meta&quot;:{
 &quot;series_annotations&quot;:[{
 &quot;type&quot;:&quot;str&quot;,
-&quot;column&quot;:&quot;legend&quot;
+&quot;column&quot;:&quot;cvrPct&quot;
 },{
 &quot;type&quot;:&quot;float&quot;,
 &quot;column&quot;:&quot;margin&quot;
@@ -130,7 +130,7 @@
 }]
 },
 &quot;tooltips&quot;:{
-&quot;variables&quot;:[&quot;margin&quot;,&quot;auditRounds&quot;,&quot;legend&quot;],
+&quot;variables&quot;:[&quot;margin&quot;,&quot;auditRounds&quot;,&quot;cvrPct&quot;],
 &quot;disable_splitting&quot;:true
 }
 }],

diff --git a/plots/src/test/kotlin/org/cryptobiotic/rlauxe/estimate/ExtraVsMarginOneAudit.kt b/plots/src/test/kotlin/org/cryptobiotic/rlauxe/estimate/ExtraVsMarginOneAudit.kt
@@ -76,7 +76,6 @@ class ExtraVsMarginOneAudit {
             }
         }
 
-        // }
         println("run ${tasks.size} tasks $ntrials trials each with ${nsimTrials} simulations each trial")
         val results: List<WorkflowResult> = runRepeatedWorkflowsAndAverage(tasks)
         println(stopwatch.took())

diff --git a/docs/Developer.md b/docs/Developer.md
@@ -1,5 +1,5 @@
 # Developer Notes
-_07/06/2026_
+_07/12/2026_
 
 <!-- TOC -->
 * [Developer Notes](#developer-notes)